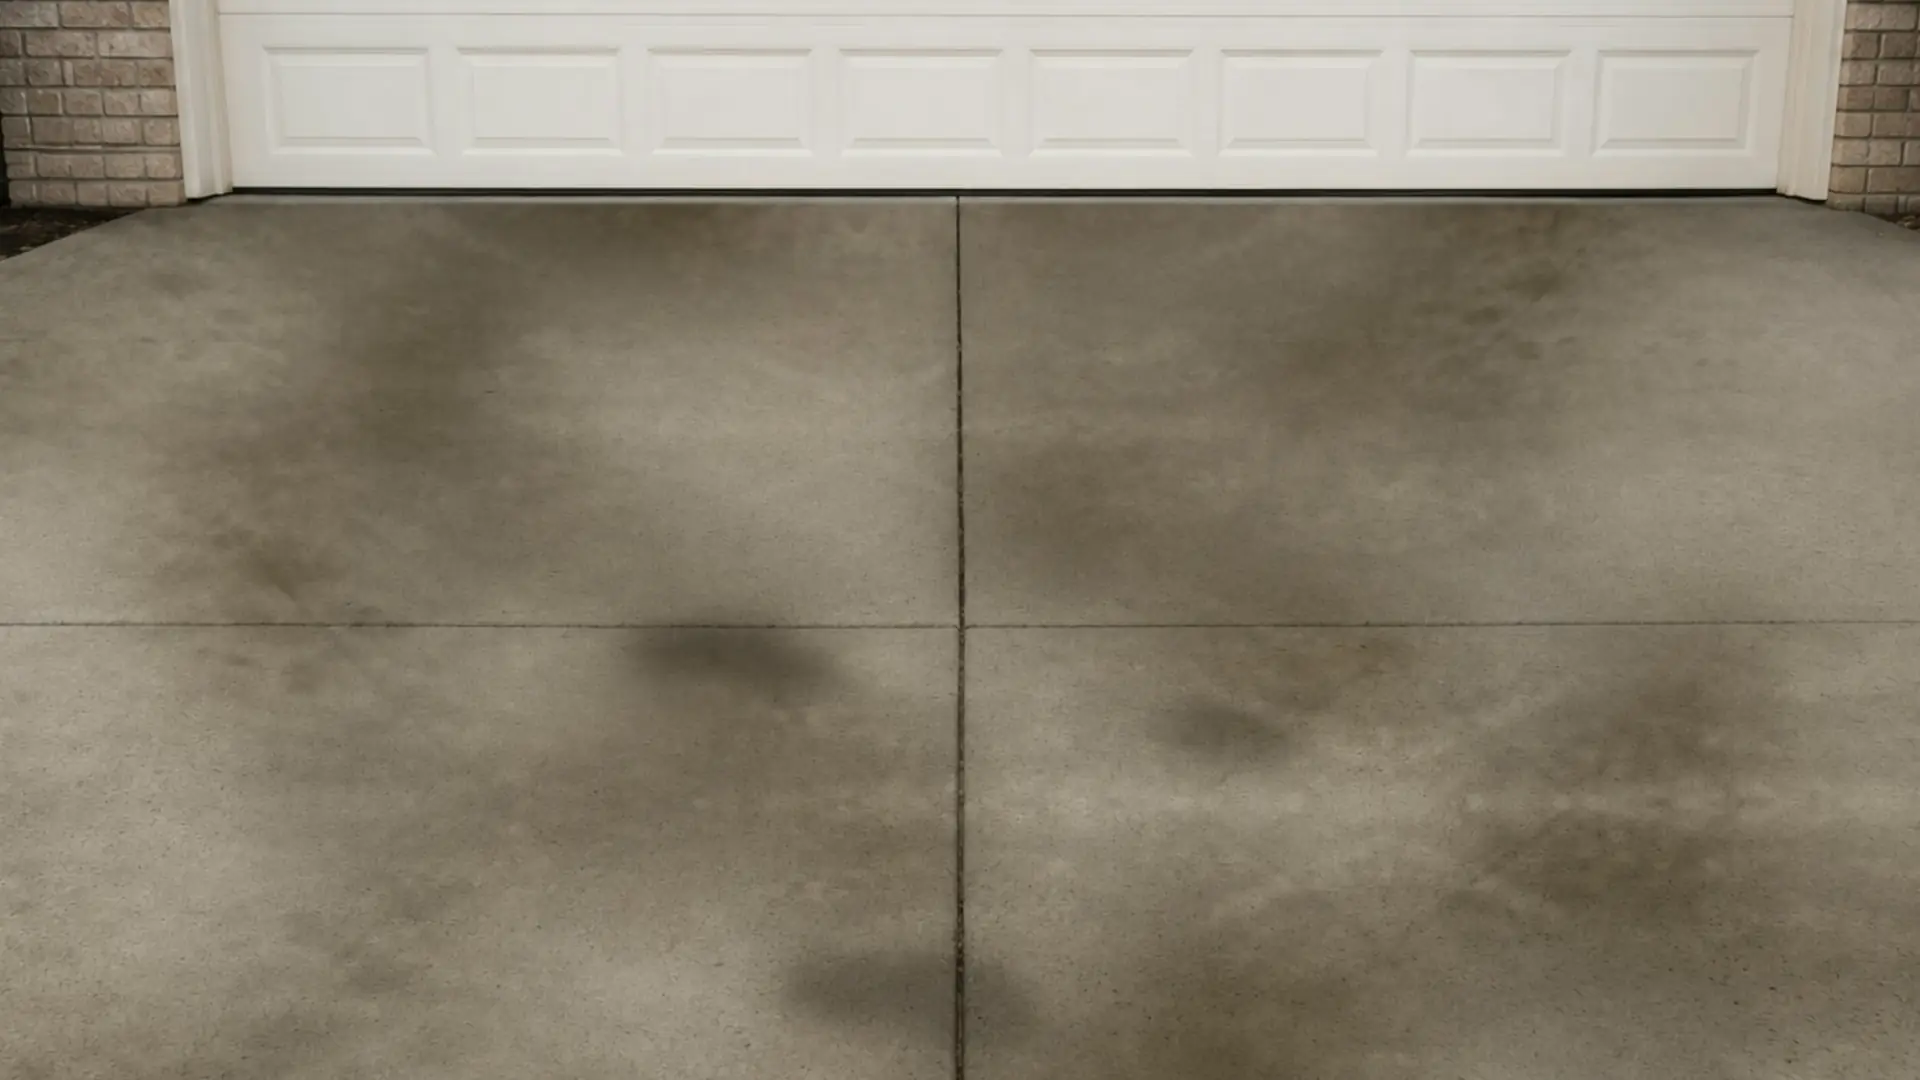
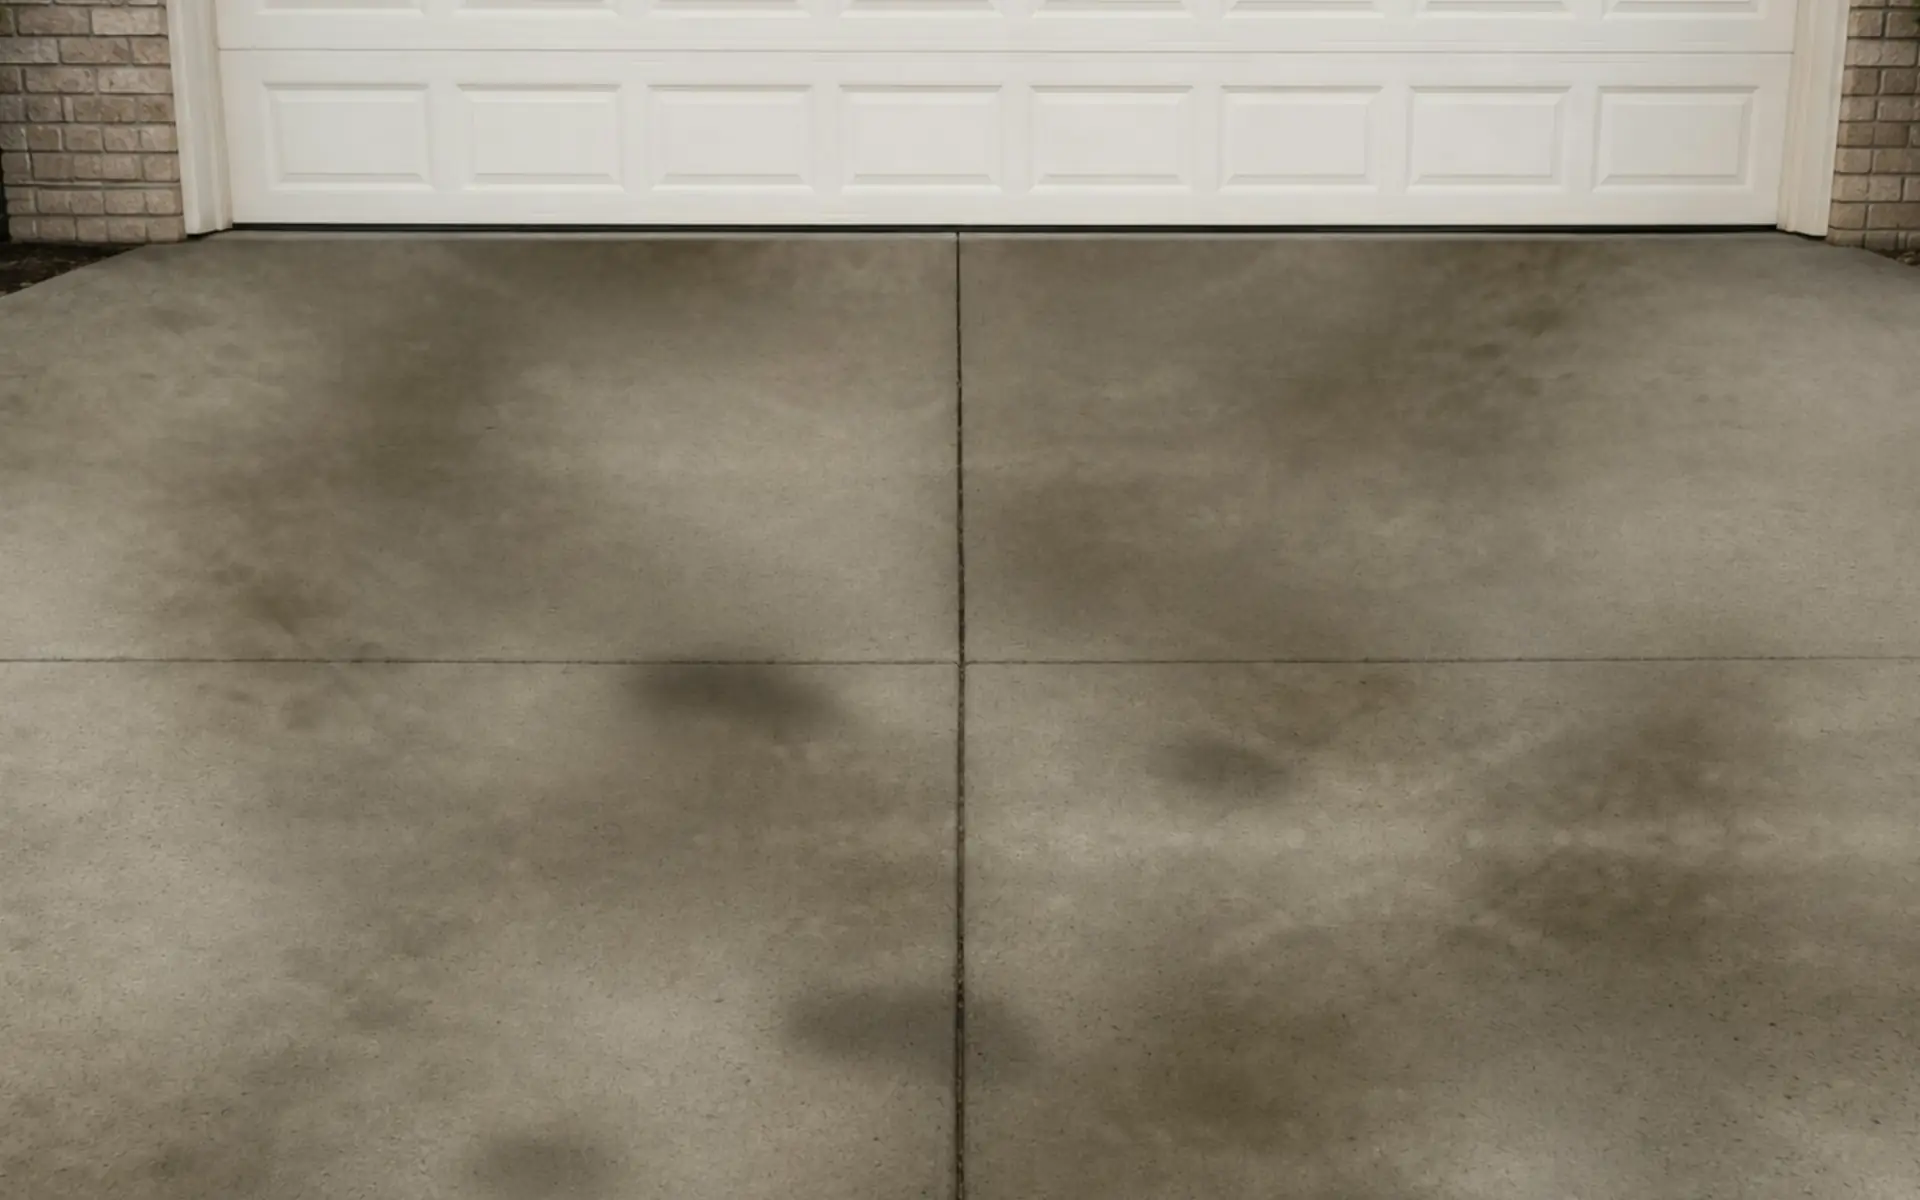
Zoom the hero driveway out a little
Phone version shows a wider slice of the driveway (garage door and both
slabs), desktop version shows a bit more top and bottom.

diff --git a/assets/js/app.js b/assets/js/app.js
@@ -30,7 +30,7 @@
     hero: {
       /* Straight-on concrete driveway in front of a garage door (Unsplash, see CREDITS.md). The 'before' is the same
          photo with real concrete grime, oil stains and wheel-path dirt added. */
-      desktop: { after: 'hero-after-desktop.webp', before: 'hero-before-desktop.webp', size: [1920, 1080], beforeRect: [0, 0, 1, 1], focus: [0.5, 1] },
+      desktop: { after: 'hero-after-desktop.webp', before: 'hero-before-desktop.webp', size: [1920, 1200], beforeRect: [0, 0, 1, 1], focus: [0.5, 1] },
       mobile: { after: 'hero-after-mobile.webp', before: 'hero-before-mobile.webp', size: [750, 1538], beforeRect: [0, 0, 1, 1], focus: [0.5, 1] },
       slab: null, /* strips sweep straight across the screen */
     },
